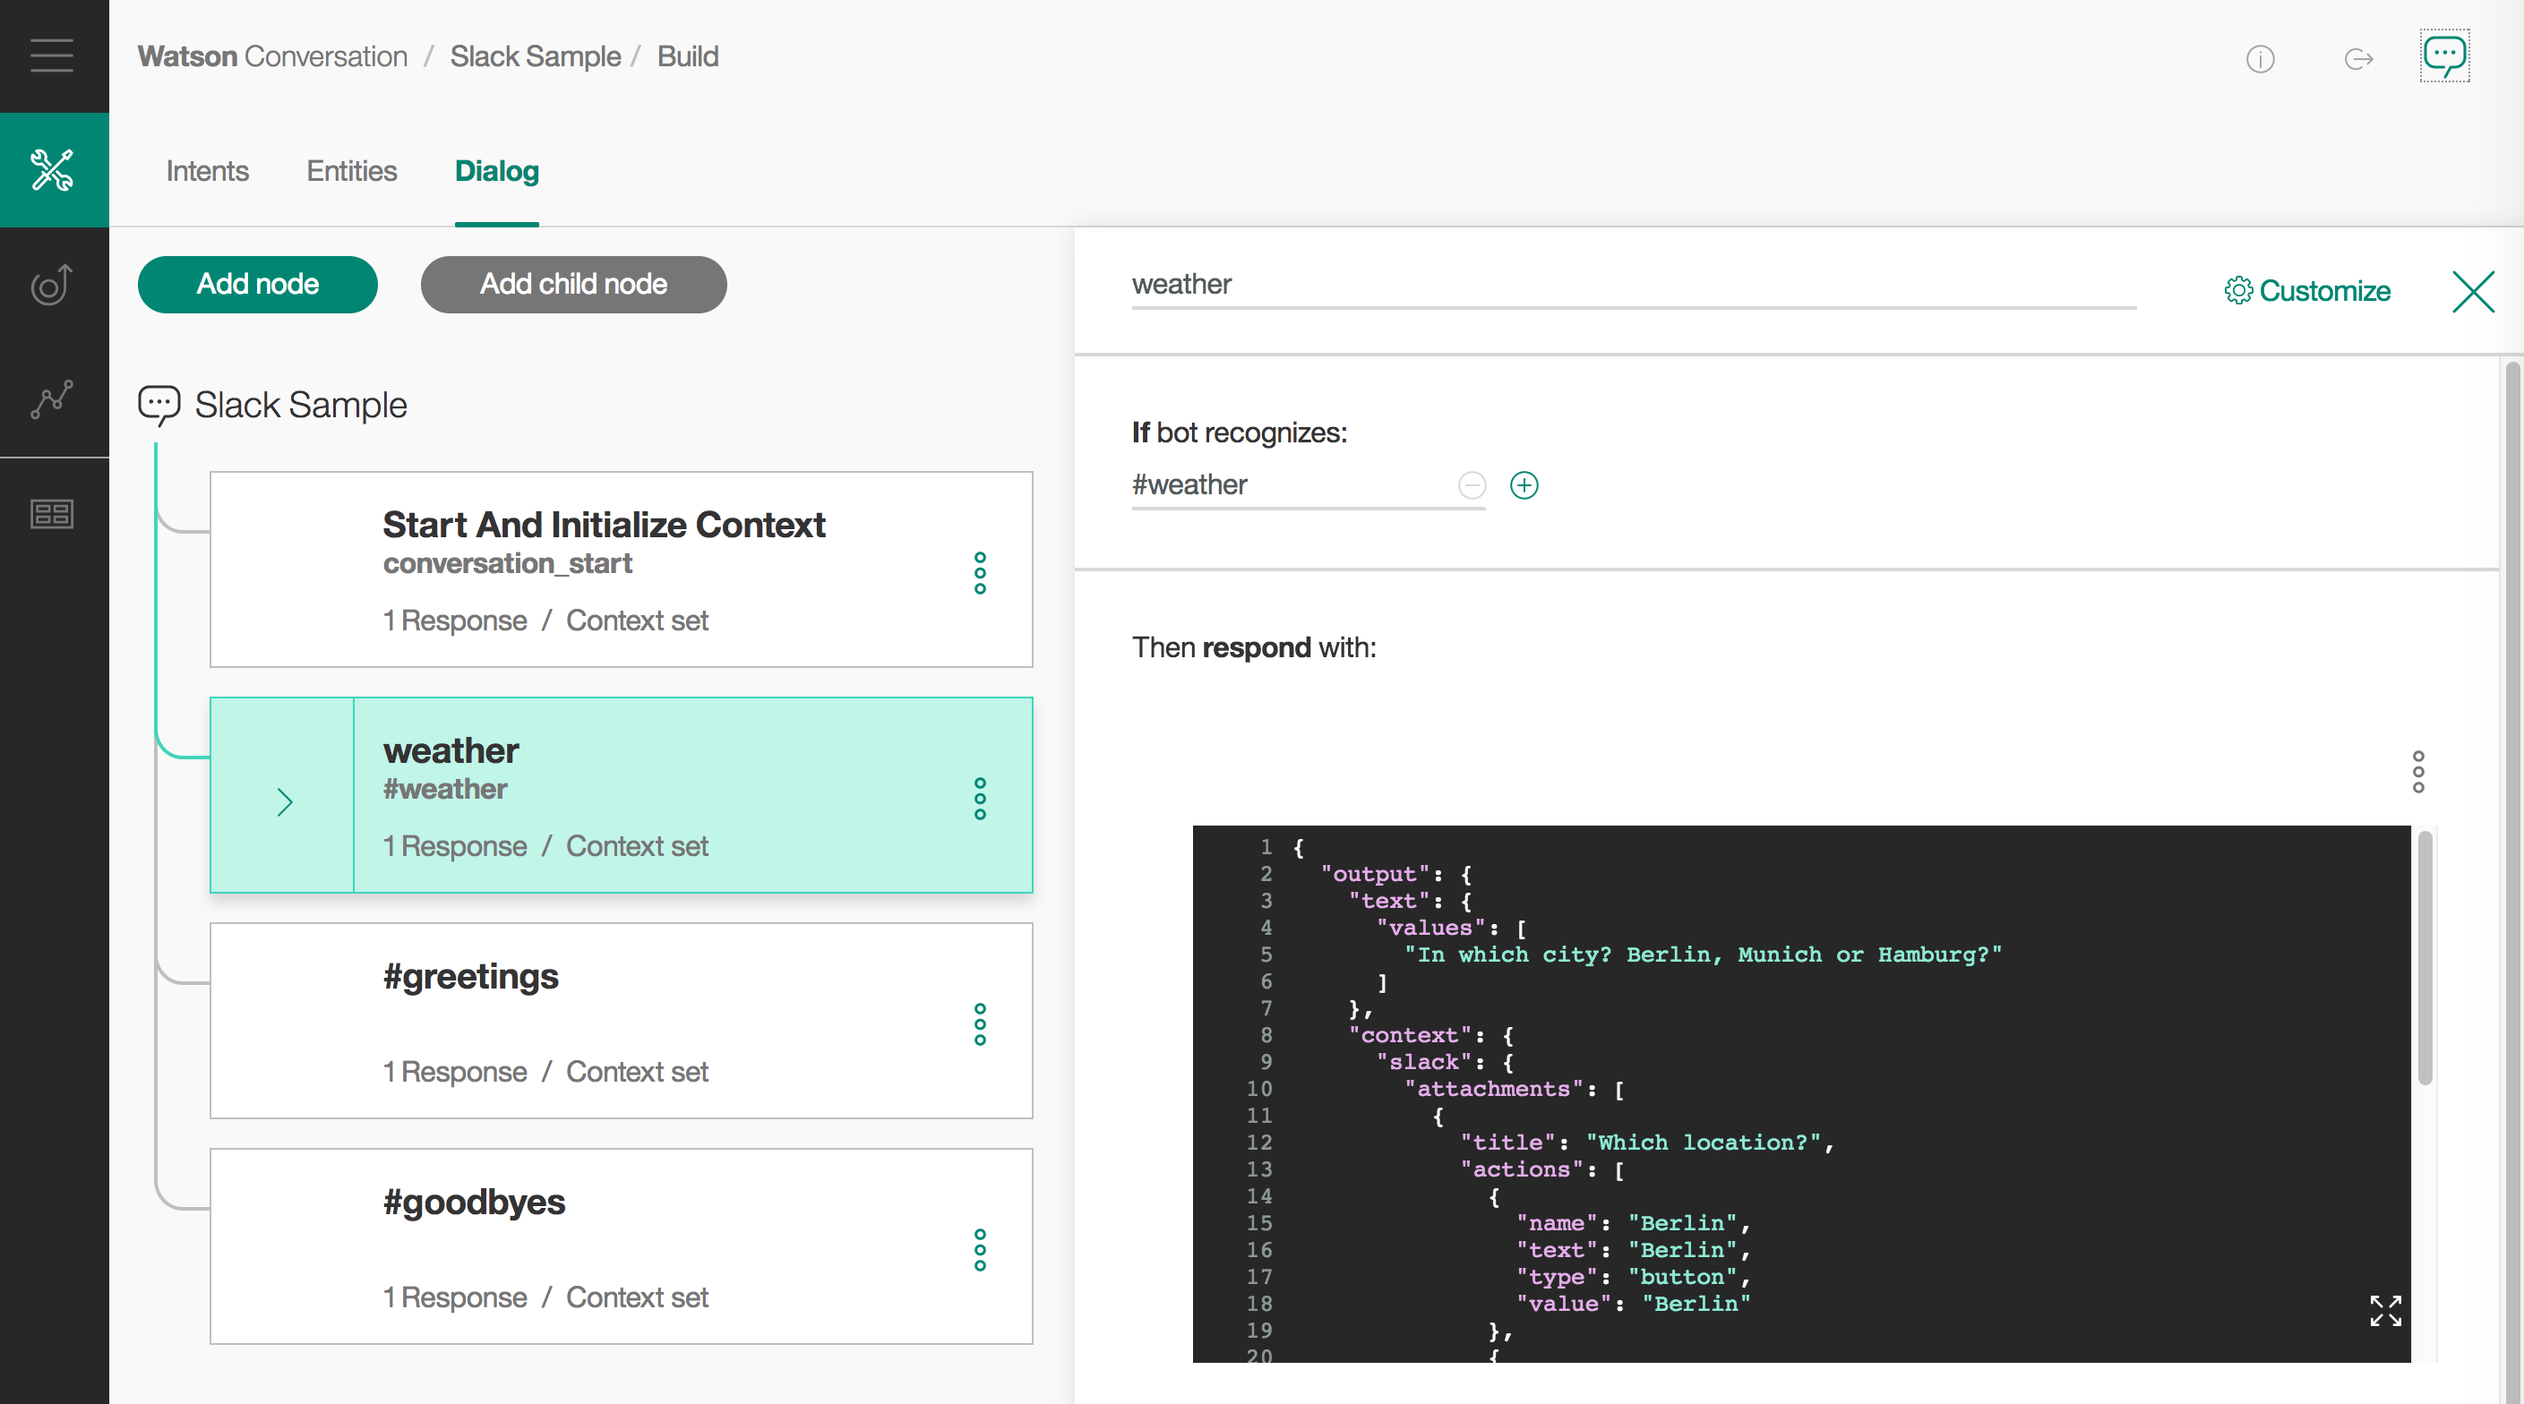
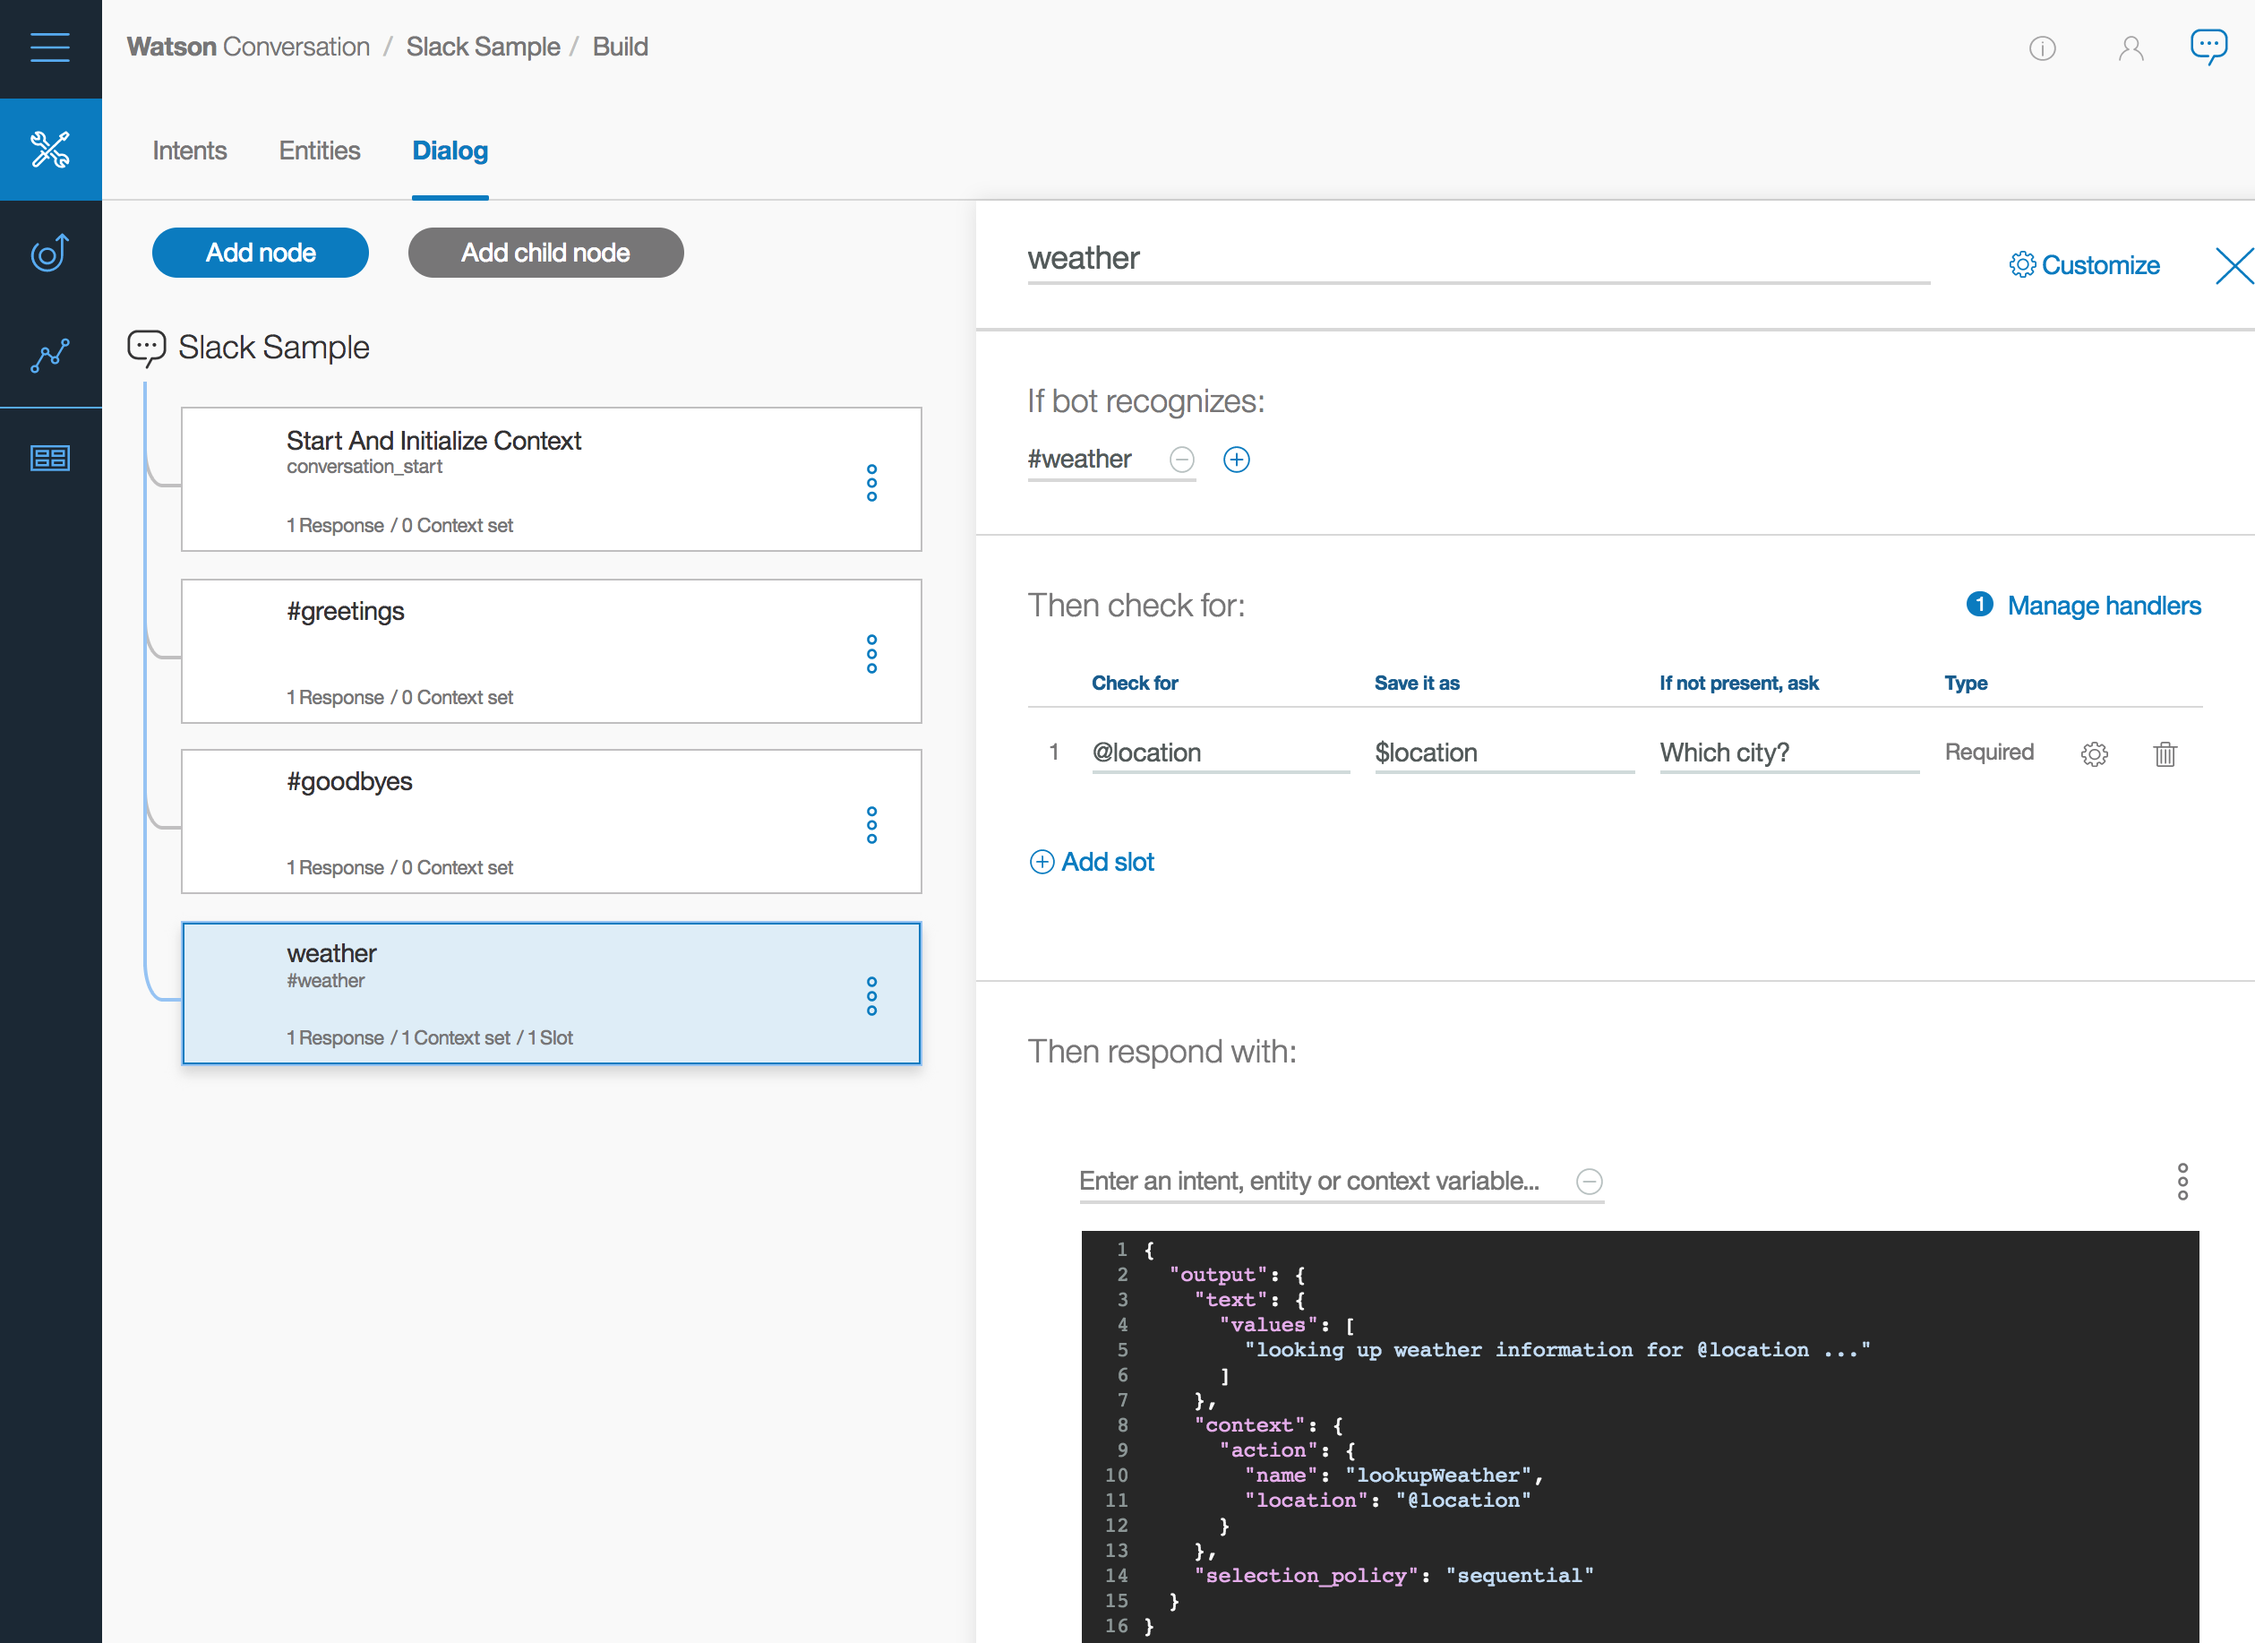
use new slots functionality

diff --git a/watson-slack.js b/watson-slack.js
@@ -54,11 +54,12 @@ function trackBot(bot) {
 
 function invokeAction(watsonDataOutput, bot, message) {
     let actionName = watsonDataOutput.context.action.name;
+    //console.log('actionName: ' + actionName)
 
     switch (actionName) {
         case 'lookupWeather':
             lookupWeather(watsonDataOutput, bot, message);
-            break;
+            break;        
         default:
             bot.reply(message, "Sorry, I cannot execute what you've asked me to do");
     }
@@ -67,6 +68,7 @@ function invokeAction(watsonDataOutput, bot, message) {
 function lookupWeather(watsonDataOutput, bot, message) {
     let coordinates;
     let location = watsonDataOutput.context.action.location;
+    //console.log('location: ' + location)
 
     switch (location) {
         case 'Munich':
@@ -91,7 +93,7 @@ function lookupWeather(watsonDataOutput, bot, message) {
     })
 }
 
-function handleWatsonResponse(bot, message) {
+function handleWatsonResponse(bot, message) {   
     let customSlackMessage = false;
     let actionToBeInvoked = false;
     if (message.watsonData) {
@@ -115,7 +117,7 @@ function handleWatsonResponse(bot, message) {
             bot.reply(message, message.watsonData.output.context.slack);
         }
         else {
-            bot.reply(message, message.watsonData.output.text.join('\n'));
+            bot.reply(message, message.watsonData.output.text[0]);
         }
     }
 }

diff --git a/README.md b/README.md
@@ -3,7 +3,7 @@ Simple Slack Bot example using IBM Watson and Botkit
 
 This [project](https://github.com/nheidloff/slack-watson-bot) contains sample code that shows how to build a chatbot for Slack that leverages [IBM Watson Conversation](https://www.ibm.com/watson/developercloud/conversation.html) and [Botkit](https://github.com/howdyai/botkit).
 
-In order to provide the best possible user experience [Slack buttons](https://api.slack.com/docs/message-buttons) are used that can be defined via the [Slack Message Builder](https://api.slack.com/docs/messages/builder). The definition of the Slack messages are stored in the [dialog definition](https://raw.githubusercontent.com/nheidloff/slack-watson-bot/master/screenshots/workspace1.png).
+In order to provide the best possible user experience [Slack buttons](https://api.slack.com/docs/message-buttons) are used that can be defined via the [Slack Message Builder](https://api.slack.com/docs/messages/builder). The definitions of the Slack messages are stored in the [dialog definition](https://raw.githubusercontent.com/nheidloff/slack-watson-bot/master/screenshots/workspace1.png).
 
 The project also demostrates how to invoke REST APIs, for example to find current weather conditions via [Weather Company Data](https://console.bluemix.net/catalog/services/weather-company-data). In order to do this, nodes in the dialog are marked as 'action nodes' via [context information](https://raw.githubusercontent.com/nheidloff/slack-watson-bot/master/screenshots/workspace2.png). The implementation of the actions is done in the [Node.js application](https://github.com/nheidloff/slack-watson-bot/blob/master/watson-slack.js#L55-L92).
 
@@ -27,6 +27,8 @@ In addition to the Slack client id and secret additional configuration needs to 
 * [oauth](https://github.com/howdyai/botkit/blob/master/docs/slack-events-api.md#3-configure-oauth)
 * [bot user](https://github.com/howdyai/botkit/blob/master/docs/slack-events-api.md#4-add-a-bot-user)
 * [interactive messages](https://github.com/howdyai/botkit/blob/master/docs/slack-events-api.md#5-set-up-interactive-messages)
+* [event subscriptions] (
+https://github.com/howdyai/botkit/blob/master/docs/slack-events-api.md#6-set-up-event-subscriptions)
 
 The Watson [workspace](https://github.com/nheidloff/slack-watson-bot/blob/master/workspace.json) needs to be [imported](https://www.ibm.com/watson/developercloud/doc/conversation/configure-workspace.html#creating-workspaces) into the Conversation service.
 
